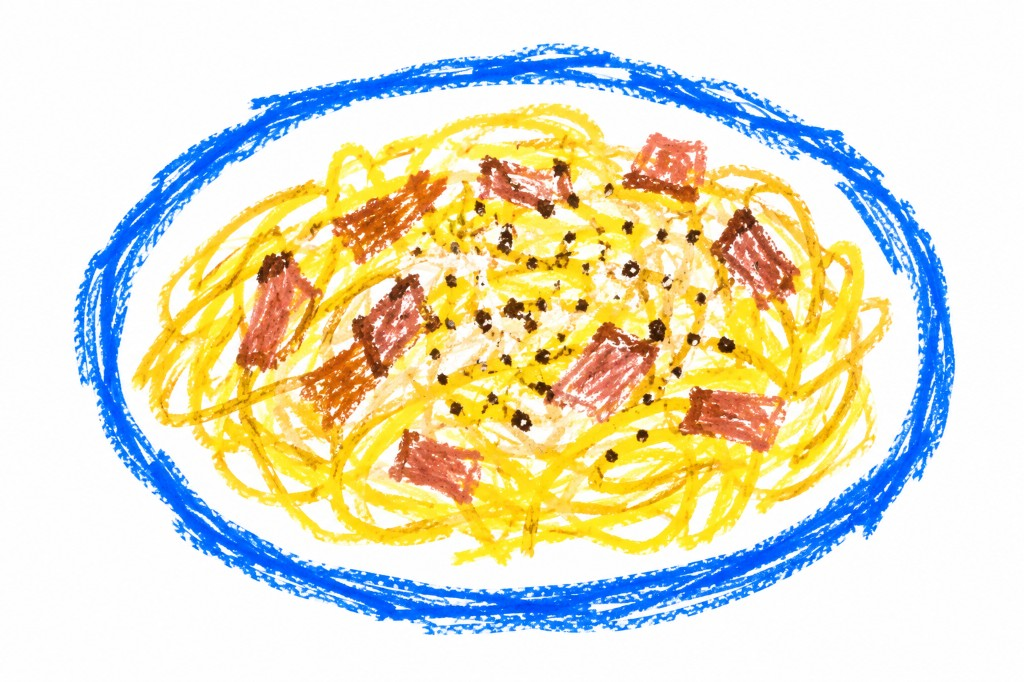
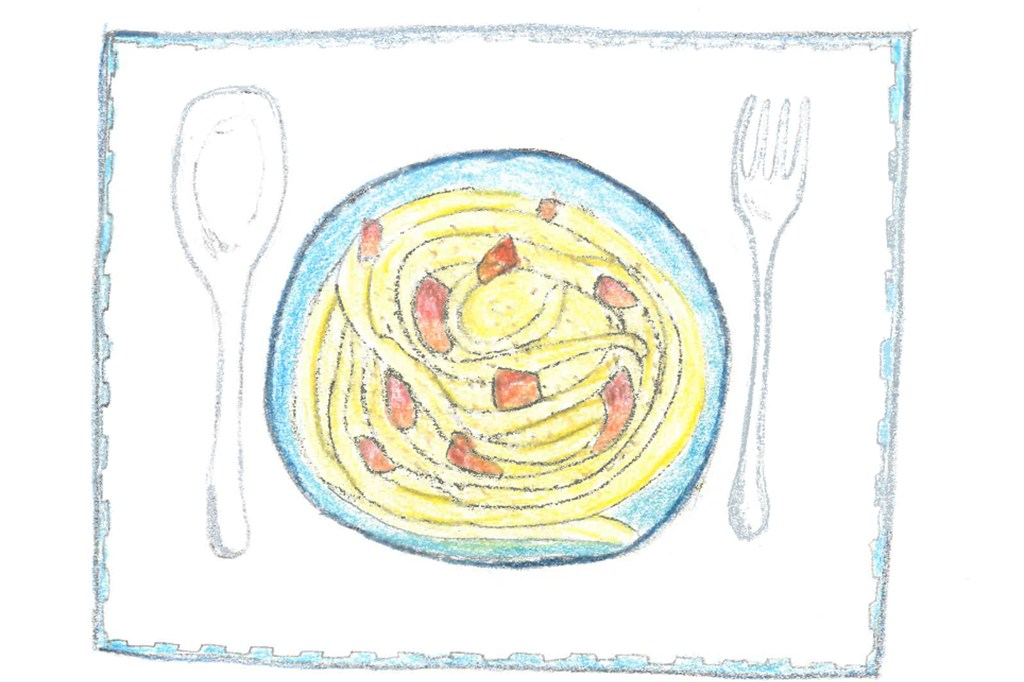
chore: Replace the carbonara recipe photo with Paola's drawing.

diff --git a/public/js/recipe-filter.js b/public/js/recipe-filter.js
@@ -242,6 +242,55 @@ const recipeFilter = {
   },
 
   /**
+   * Counts how many recipes stay visible for the active cook.
+   * @param {string} cookName The active cook, or an empty string.
+   * @returns {number} The number of visible recipes.
+   */
+  countVisibleRecipes: function (cookName)
+  {
+    let recipeItems;
+    let itemCount;
+    let visibleCount;
+    let i;
+
+    recipeItems = document.querySelectorAll(".recipe-item");
+    itemCount = recipeItems.length;
+    visibleCount = 0;
+    i = 0;
+
+    while (i < itemCount)
+    {
+      if (this.isRecipeVisible(recipeItems[i].dataset.cook, cookName) == true)
+      {
+        visibleCount++;
+      }
+      i++;
+    }
+
+    return (visibleCount);
+  },
+
+  /**
+   * Writes the visible recipe count into the filter row.
+   * @param {string} cookName The active cook, or an empty string.
+   * @returns {void}
+   */
+  updateRecipeCount: function (cookName)
+  {
+    let countElement;
+    let visibleCount;
+
+    countElement = document.querySelector(".recipe-count");
+    visibleCount = 0;
+
+    if (countElement != null)
+    {
+      visibleCount = this.countVisibleRecipes(cookName);
+      countElement.textContent = String(visibleCount);
+    }
+  },
+
+  /**
    * Applies the active cook to the buttons and the recipe list.
    * @param {string} cookName The active cook, or an empty string.
    * @returns {void}
@@ -250,6 +299,7 @@ const recipeFilter = {
   {
     this.markSelectedButton(cookName);
     this.showRecipes(cookName);
+    this.updateRecipeCount(cookName);
   },
 
   /**

diff --git a/public/style.css b/public/style.css
@@ -296,14 +296,30 @@ body {
 
   /* Place the cook filters on one row. */
   .recipe-filter {
-    /* Align the two tags side by side. */
+    /* Align the count and the tags side by side. */
     display: flex;
 
-    /* Add space between the tags. */
+    /* Keep the count level with the tags. */
+    align-items: center;
+
+    /* Add space between the count and the tags. */
     gap: 8px;
 
     /* Separate the filters from the recipe list. */
     margin-bottom: 32px;
+  }
+
+  /* Show how many recipes match the active filter. */
+  .recipe-count {
+    /* Match the tag label size. */
+    font-size: 15px;
+    font-weight: 700;
+
+    /* Match the warm dark brown used for the recipe names. */
+    color: #3a2a22;
+
+    /* Leave a little space before the first tag. */
+    margin-right: 4px;
   }
 
   /* Draw each filter as a small rounded tag. */

diff --git a/public/index.html b/public/index.html
@@ -38,6 +38,7 @@
   <main class="home-page">
     <!-- Choose whose recipes to show. -->
     <div class="recipe-filter" role="group" aria-label="Filtra per cuoco">
+      <span class="recipe-count" aria-live="polite">8</span>
       <button type="button" class="cook-filter cook-tag-mamma" data-cook="mamma" aria-pressed="false">#mamma</button>
       <button type="button" class="cook-filter cook-tag-papa" data-cook="papa" aria-pressed="false">#papa</button>
     </div>
